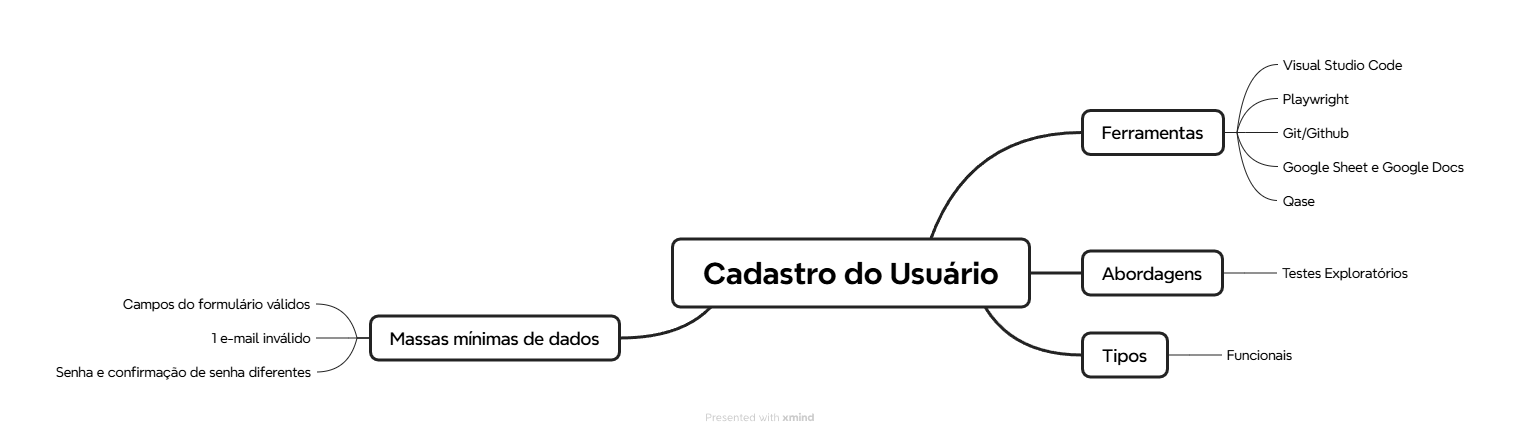
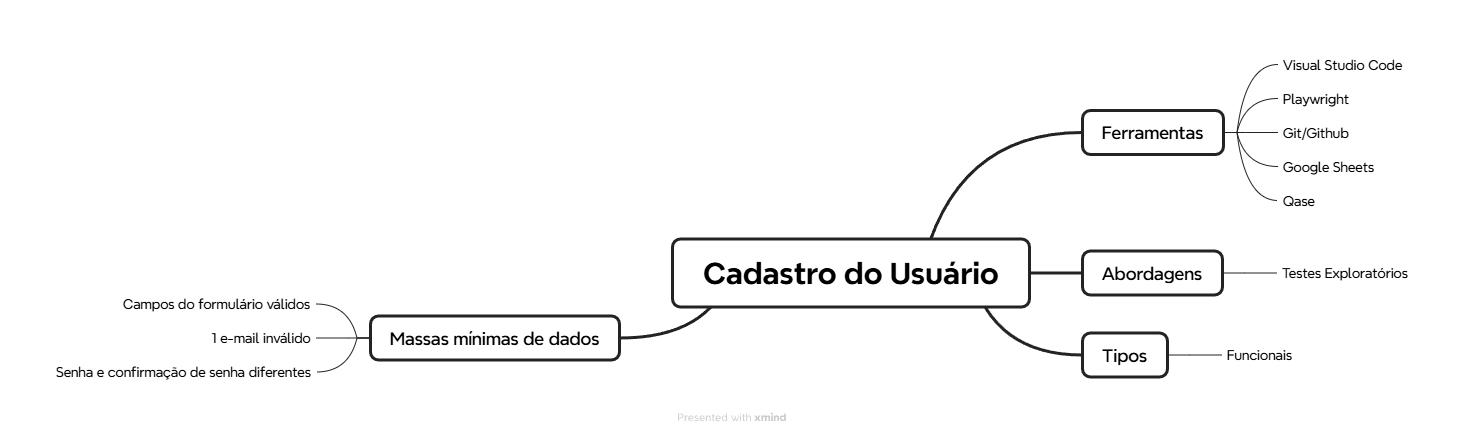
Update Readme

diff --git a/README.md b/README.md
@@ -51,14 +51,14 @@ Podemos considerar que uma Estratégia de Testes é uma visão de alto nível e 
 
 - **Abordagem de Testes**: Foi utilizado Testes Exploratórios como abordagem de testes em virtude de não possuir documentações ou outros artefatos relacionados à aplicação.
 - **Tipos de Testes**: Pelo escopo do desafio e condições de teste fornecidas os testes funcionais é o tipo de teste que deve ser escolhido.
-- **Ferramentas**: Para IDE (Visual Studio Code), Framework de Automação de Testes (Playwright), Versionamento e Entrega (Git/Github), Planejamento e Criação de Artefatos não relacionados à automação (Google Sheets e Google Docs) Ferramenta de Gestão de Testes (Qase).
+- **Ferramentas**: Para IDE (Visual Studio Code), Framework de Automação de Testes (Playwright), Versionamento e Entrega (Git/Github), Planejamento e Criação de Artefatos não relacionados à automação (Google Sheets) Ferramenta de Gestão de Testes (Qase).
 - **Massas**: Foram pré-definidas as massas de testes para os casos de teste nas condições de teste descritas, a fim de padronizar a execução dos testes.
 
 Abaixo temos um Mapa Mental que exemplifica as características apresentadas:
 
 ![Mapa Mental - Estratégia de Testes](/images/Cadastro%20do%20Usuário.png)
 
-O Mapa de Cobertura, Estratégia de Testes e os arquivos gerados pela plataforma de Gestão de Testes Qase (Roteiro de Testes e Reporte da Execução) podem ser acessados [AQUI](https://drive.google.com/drive/folders/18EYhuq9dHSzK_lwgD3_l6CkpIqrH7Sg0?usp=sharing)
+O Mapa de Cobertura, Estratégia de Testes e o Roteiro de Testes gerado pela plataforma Qase podem ser acessados nesta [Pasta no Google Drive](https://drive.google.com/drive/folders/18EYhuq9dHSzK_lwgD3_l6CkpIqrH7Sg0?usp=sharing)
 
 
 ## 📚 Processo de Teste
